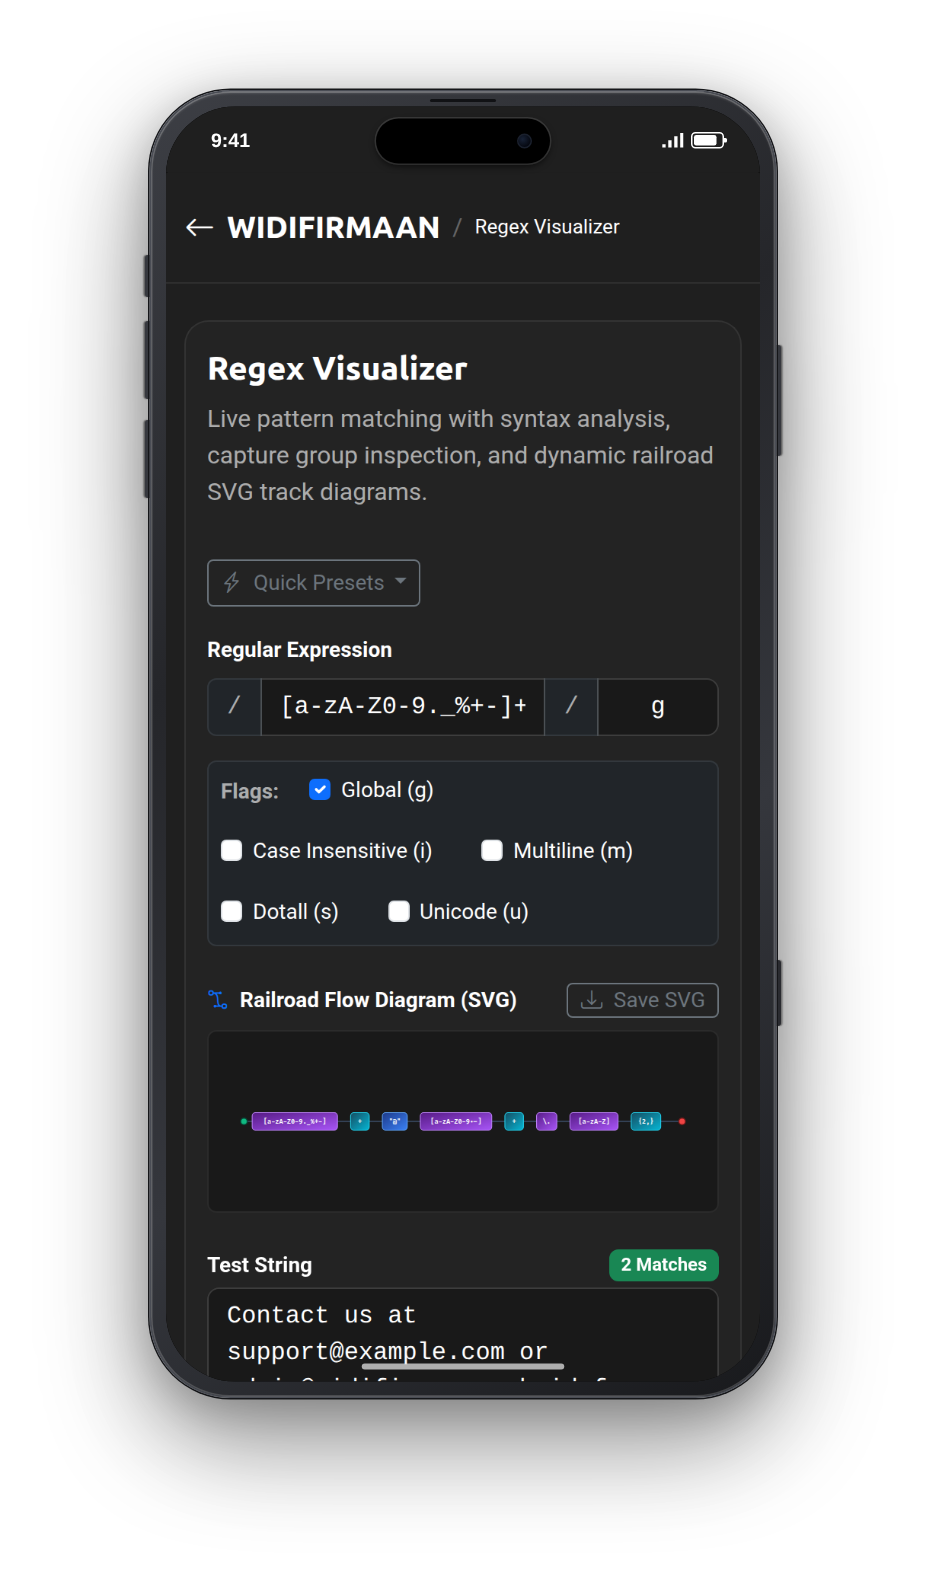
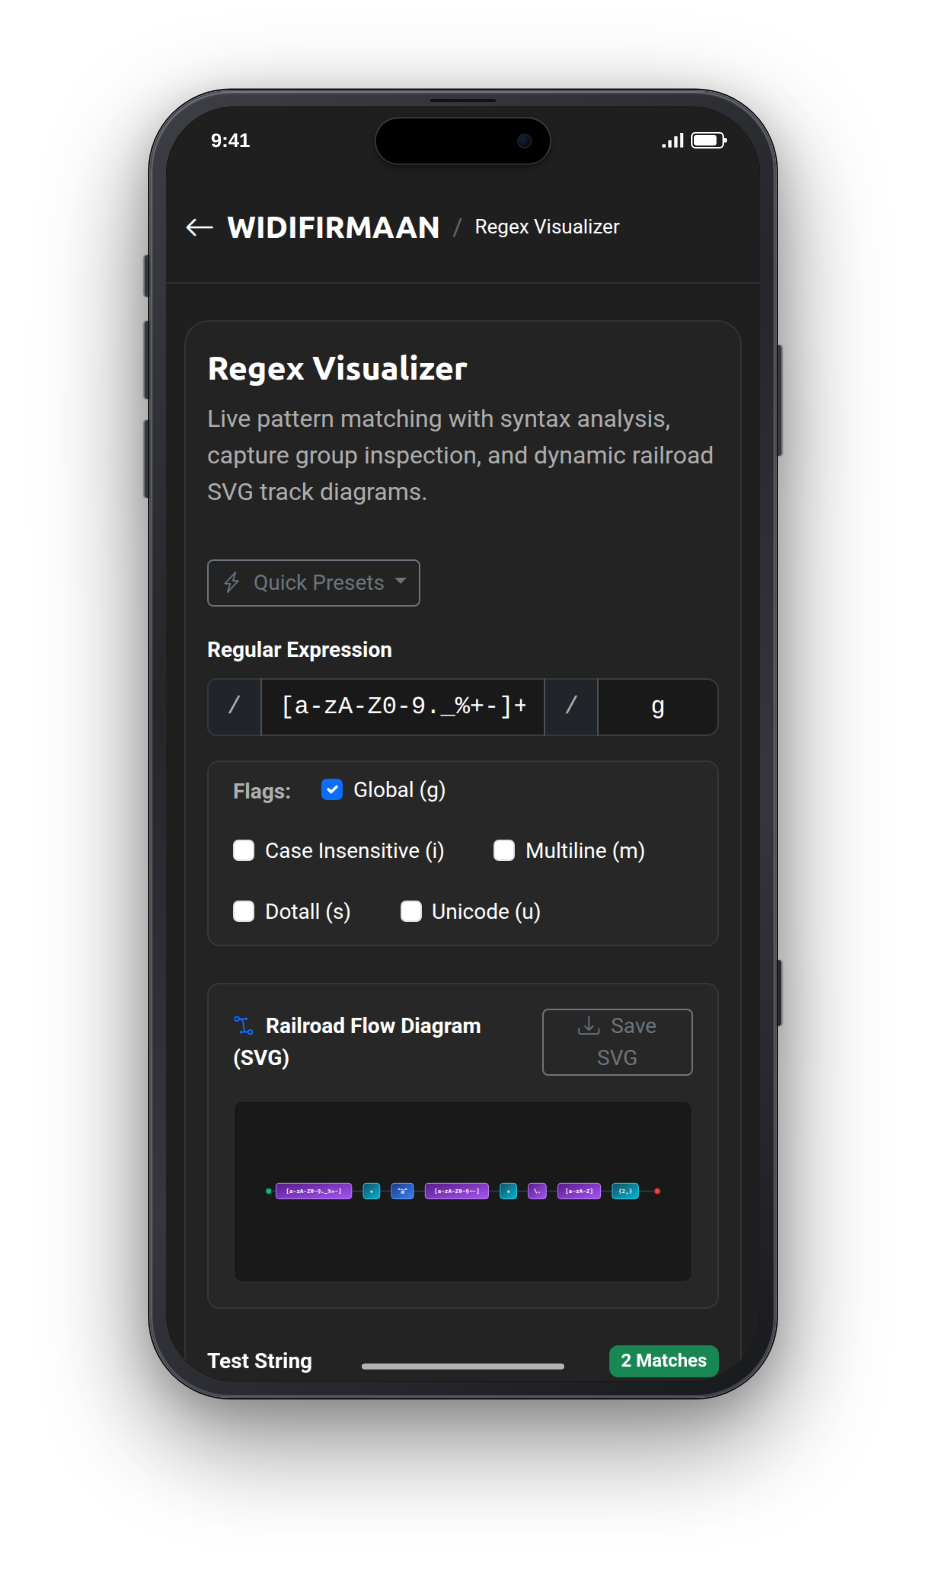
style: wrap Railroad Flow Diagram (SVG) and Flags inside standard tool-panel

diff --git a/tools/regex-visualizer.html b/tools/regex-visualizer.html
@@ -79,7 +79,7 @@
               </div>
 
               <!-- Flags Toggles -->
-              <div class="d-flex flex-wrap gap-3 mb-4 p-2 rounded bg-dark border border-secondary border-opacity-25 small">
+              <div class="tool-panel d-flex flex-wrap gap-3 mb-4 py-2 px-3 small">
                 <span class="text-secondary fw-bold align-self-center me-1">Flags:</span>
                 <div class="form-check form-check-inline mb-0">
                   <input class="form-check-input flag-check" type="checkbox" id="flagG" value="g" checked>
@@ -104,8 +104,8 @@
               </div>
 
               <!-- Railroad Visualizer -->
-              <div class="mb-4">
-                <div class="d-flex justify-content-between align-items-center mb-2">
+              <div class="tool-panel mb-4">
+                <div class="d-flex justify-content-between align-items-center mb-3">
                   <span class="text-white small fw-bold">
                     <i class="bi bi-bezier2 me-1 text-primary"></i> Railroad Flow Diagram (SVG)
                   </span>

diff --git a/assets/css/main.css b/assets/css/main.css
@@ -3232,9 +3232,17 @@ textarea:-ms-input-placeholder,
   min-height: 120px;
   display: flex;
   align-items: center;
-  justify-content: center;
+  justify-content: flex-start;
+  width: 100%;
 }
-.regex-highlight-box {
+.railroad-container svg {
+  margin: auto;
+  flex-shrink: 0;
+  max-width: 100%;
+  height: auto;
+}
+.regex-highlight-box,
+.match-highlight-box {
   background: #191919;
   border: 1px solid rgba(255, 255, 255, 0.08);
   border-radius: var(--bs-border-radius, 0.375rem);
@@ -3249,7 +3257,8 @@ textarea:-ms-input-placeholder,
   word-break: break-all;
   color: #e2e8f0;
 }
-.regex-highlight-box mark {
+.regex-highlight-box mark,
+.match-highlight-box mark {
   background: rgba(245, 158, 11, 0.25);
   color: #fde68a;
   border-radius: 3px;
